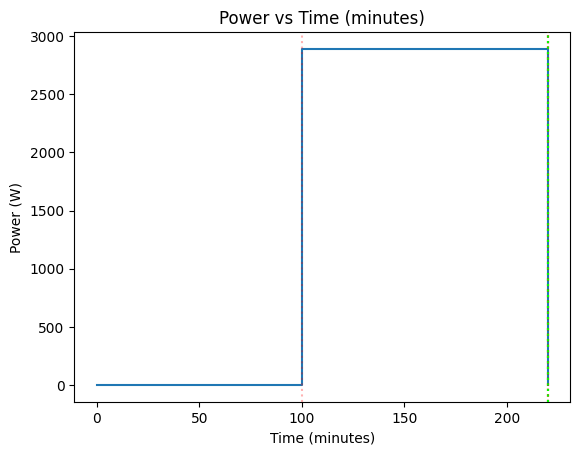
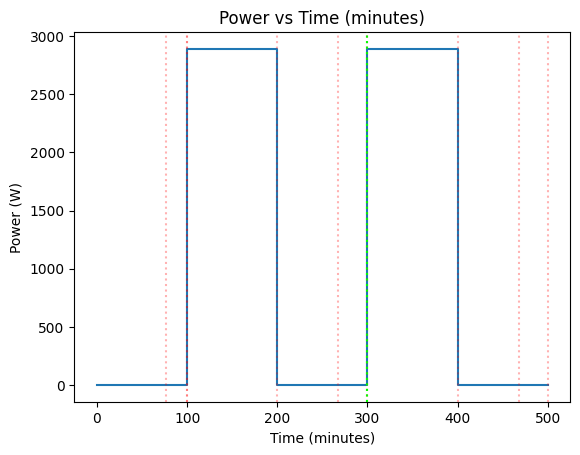
Fixed voyage sweep graph

diff --git a/PySpice/simulation_over_time.py b/PySpice/simulation_over_time.py
@@ -31,74 +31,92 @@ def start_voyage(circuit_config_loc: str, voyage_config_loc: str, save_path: str
     battery_capacity_list = [current_capacity_Amin]
     
     segment_length = len(segments)
+    
     for segment_idx in range(segment_length):
-        print(segment_length)
         segment = segments[segment_idx]
         
         duration_minutes = segment['duration_minutes']
         throttle_setting = segment['throttle']
         panel_power_setting = segment['solar_power']
+        
         modifications = {}
-
         modifications['battery_voltage'] = estimate_battery_voltage(current_soc, battery_min_voltage, battery_max_voltage)
         modifications['panel_power_setting'] = panel_power_setting
         modifications['throttle_setting'] = throttle_setting
-
-        """ if results == []:
-            circuit, component_object, errors = build_circuit_from_json(circuit_config_loc=circuit_config_loc, modifications=modifications)
-            analysis, result = begin_simulation(circuit, component_object, errors, ngspice_available)
-            results.append(result)
-            continue """
                 
-        if current_capacity_Amin <= EPSILON:
-            modifications['max_discharge_current'] = 0
         
+        # Run with original circuit first
         circuit, component_object, errors = build_circuit_from_json(circuit_config_loc=circuit_config_loc, modifications=modifications)
         analysis, result = begin_simulation(circuit, component_object, errors, ngspice_available)
 
-        #if result[battery discharge] * voyage time > current capacity, 
-        # calculate how huch time to reach 0, remainding time of the segment modify to 0 discharge
-        battery_charge_current_A = result["summary"]["data"][0]["current"]["total_battery_input_current"]        
-        print("Battery charge current (A):", battery_charge_current_A)
-        print(duration_minutes)
-        # add another step to setting  so load & panel/mppt current jump to setting
-        # Keep battery calculation same so its slowly increases/decreases
-        if current_capacity_Amin >= 0 and (current_capacity_Amin + (battery_charge_current_A * duration_minutes) <= 0): 
-            minues_to_empty = abs(current_capacity_Amin / battery_charge_current_A)
-            print("Minutes to empty battery:", minues_to_empty)
-            copy = deepcopy(segments[segment_idx])
-            copy["duration_minutes"] = duration_minutes - minues_to_empty
-            segments[segment_idx]["duration_minutes"] = minues_to_empty
-            segments.insert(segment_idx + 1, copy)
-            segment_length += 1      
-                  
+        if analysis is None:
+            print(f"{BARF}Simulation Aborted{BARE}")
+            break
+        
+        # +ve -> Battery charging, -ve -> discharging
+        battery_charge_current_A = result["summary"]["data"][0]["current"]["total_battery_input_current"]  
+        
+        # Excess current balanced by balancing load
+        # Excess discharge current restricted by spice
+        
+        # If battery is full and charging, set max charge current to 0
+        # If battery is empty and discharging, set max discharge current to 0
+        # If battery is empty, set max discharge current to 0 to prevent further discharge
+        if current_capacity_Amin + (battery_charge_current_A * duration_minutes) > battery_capacity_Amin:
+            time_to_full = (battery_capacity_Amin - current_capacity_Amin) / battery_charge_current_A
+            print("Time to full battery (minutes):", time_to_full)
+            
+            # Run 2 simulations: to full, then rest of time with 0 charge current
+            results.append(result)
+            time_range_min.append(time_range_min[-1] + time_to_full)
+            current_capacity_Amin = battery_capacity_Amin
+            battery_capacity_list.append(current_capacity_Amin)
+            current_soc = 1.0
+            step_up_prev(results, time_range_min, battery_capacity_list)
+            
+            
+            # Re-run with 0 charge current for rest of time
+            modifications['max_charge_current'] = 0
+            circuit, component_object, errors = build_circuit_from_json(circuit_config_loc=circuit_config_loc, modifications=modifications)
+            analysis, result = begin_simulation(circuit, component_object, errors, ngspice_available)
+            
+            results.append(result)
+            time_range_min.append(time_range_min[-1] + (duration_minutes - time_to_full))
+            battery_capacity_list.append(current_capacity_Amin)
+            step_up_prev(results, time_range_min, battery_capacity_list)
+        
+        elif current_capacity_Amin + (battery_charge_current_A * duration_minutes) < 0:
+            time_to_empty = abs(current_capacity_Amin / battery_charge_current_A)
+            print("Time to empty battery (minutes):", time_to_empty)
+            
+            # Run 2 simulations: to empty, then rest of time with 0 discharge current
+            results.append(result)
+            time_range_min.append(time_range_min[-1] + time_to_empty)
             current_capacity_Amin = 0
-            current_soc = 0
+            battery_capacity_list.append(current_capacity_Amin)
+            step_up_prev(results, time_range_min, battery_capacity_list)
             
-            results.append(result)            
-            time_range_min.append(time_range_min[-1])
-            
-            results.append(result)
-            time_range_min.append(time_range_min[-1] + minues_to_empty)
-        else:
-            print(segment, battery_charge_current_A )
-            calculated_capacity = current_capacity_Amin + (battery_charge_current_A * duration_minutes)
-            print(battery_capacity_Amin, calculated_capacity)
-            current_capacity_Amin = min(battery_capacity_Amin, calculated_capacity)
-            print("Current capacity_Amin:", current_capacity_Amin)
-            current_soc = current_capacity_Amin / battery_capacity_Amin
+            # Re-run with 0 discharge current for rest of time
+            modifications['max_discharge_current'] = 0
+            circuit, component_object, errors = build_circuit_from_json(circuit_config_loc=circuit_config_loc, modifications=modifications)
+            analysis, result = begin_simulation(circuit, component_object, errors, ngspice_available)
             
             results.append(result)
-            time_range_min.append(time_range_min[-1])
-            
+            time_range_min.append(time_range_min[-1] + (duration_minutes - time_to_empty))
+            battery_capacity_list.append(current_capacity_Amin)
+            current_soc = 0.0
+            step_up_prev(results, time_range_min, battery_capacity_list)
+        
+        else:          
             results.append(result)
             time_range_min.append(time_range_min[-1] + duration_minutes)
+            current_capacity_Amin = current_capacity_Amin + (battery_charge_current_A * duration_minutes)
+            current_soc = current_capacity_Amin / battery_capacity_Amin
+            battery_capacity_list.append(current_capacity_Amin)
+            step_up_prev(results, time_range_min, battery_capacity_list)
 
-        # Re-add the same time since capacity drains, not jump to value
-        battery_capacity_list.append(battery_capacity_list[-1])
-        battery_capacity_list.append(current_capacity_Amin)
-        print(battery_capacity_list)
-
+        
+    #print(json.dumps(results, indent=4))
     print(len(results), len(time_range_min))
     results = [results[0]] + results
     generate_graph(results=results, x_axis=time_range_min, x_label="Time (minutes)",
@@ -126,3 +144,10 @@ def estimate_battery_voltage(soc, min_voltage, max_voltage):
     """Simple linear estimation"""
     print('soc',soc)
     return min_voltage + (max_voltage - min_voltage) * soc
+
+def step_up_prev(results: list, time_range_min: list, battery_capacity_list: list):
+    results.append(results[-1])
+    time_range_min.insert(-1, time_range_min[-2])
+    
+    # Keep the battery slanted
+    battery_capacity_list.insert(-1, battery_capacity_list[-2])

diff --git a/PySpice/circuit_constructor.py b/PySpice/circuit_constructor.py
@@ -33,6 +33,8 @@ def build_circuit_from_json(circuit_config_loc: str, modifications: dict = {}):
     battery_config = battery_array[battery_choice]
     if modifications.get('max_discharge_current') is not None:
         battery_config['max_discharge_current'] = modifications['max_discharge_current']
+    if modifications.get('max_charge_current') is not None:
+        battery_config['max_charge_current'] = modifications['max_charge_current']
     
     if modifications.get('battery_voltage') is not None:
         battery_config['battery_voltage'] = modifications['battery_voltage']

diff --git a/PySpice/pyspice_simulator.py b/PySpice/pyspice_simulator.py
@@ -10,6 +10,9 @@ def begin_simulation(circuit, component_object, errors, pyspice_availablility=Fa
     
     # Errors cannot be ignored for actual run
     has_error = len(errors) > 0
+    analysis = None
+    result = None
+    
     if not has_error or IGNORE_ERROR:
         if START_SIMULATION:
             simulation_started = True
